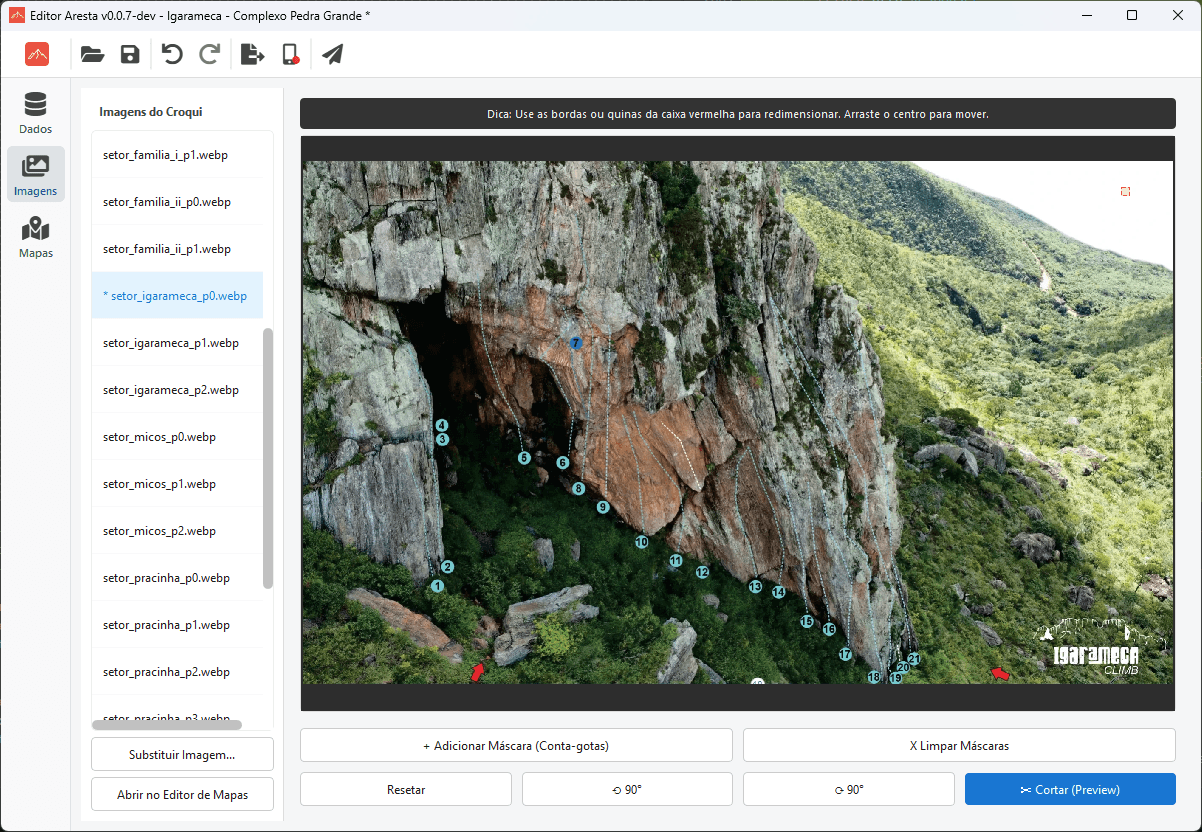
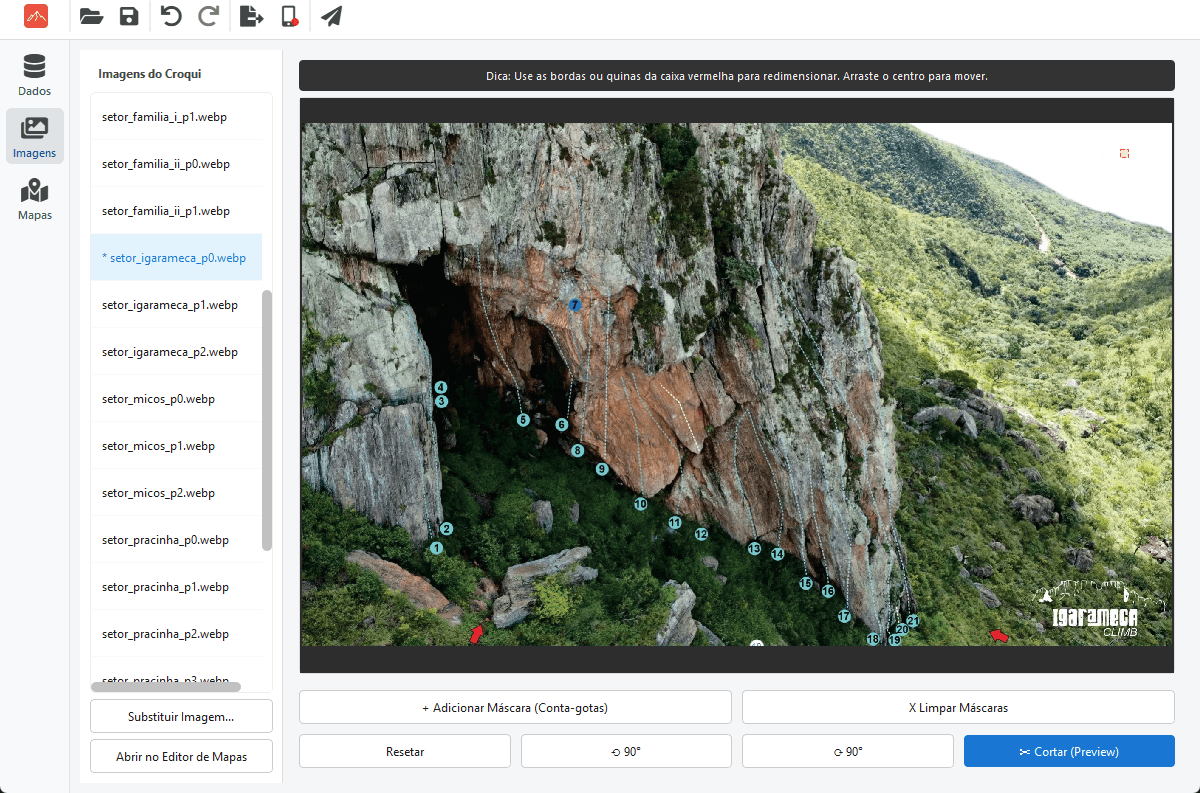
fix(editor): remover barras de título e fundo preto, mantendo apenas a interface pura do editor

diff --git a/src/editor.css b/src/editor.css
@@ -251,18 +251,18 @@ a {
 .editor-showcase-window {
   max-width: var(--container-max);
   margin: 0 auto 80px;
-  background: var(--surface);
+  background: transparent;
   border: 1px solid var(--line);
-  border-radius: 16px;
+  border-radius: var(--radius-md);
   overflow: hidden;
   box-shadow: var(--shadow);
-  position: relative;
 }
 
 .editor-showcase-window img {
   width: 100%;
   height: auto;
   display: block;
+  border-radius: calc(var(--radius-md) - 1px);
 }
 
 /* Features Grid */
